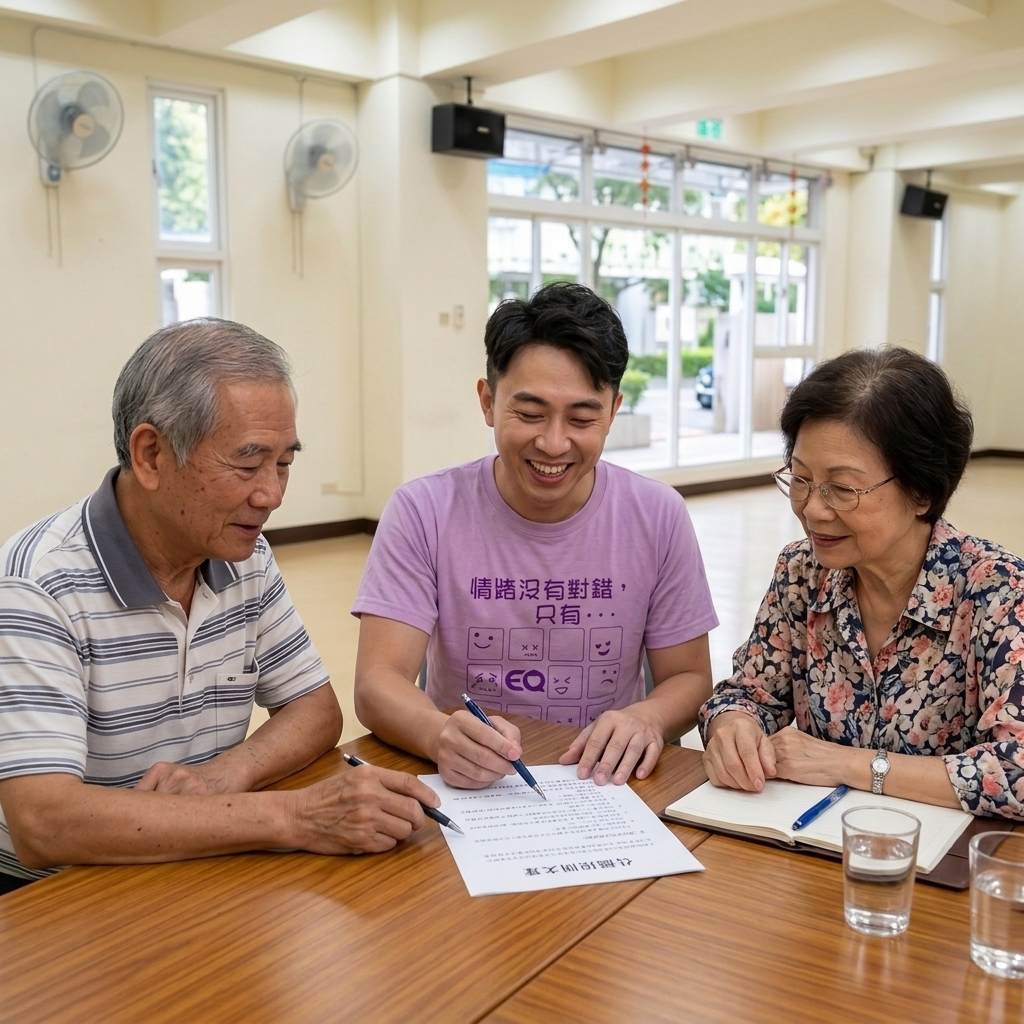
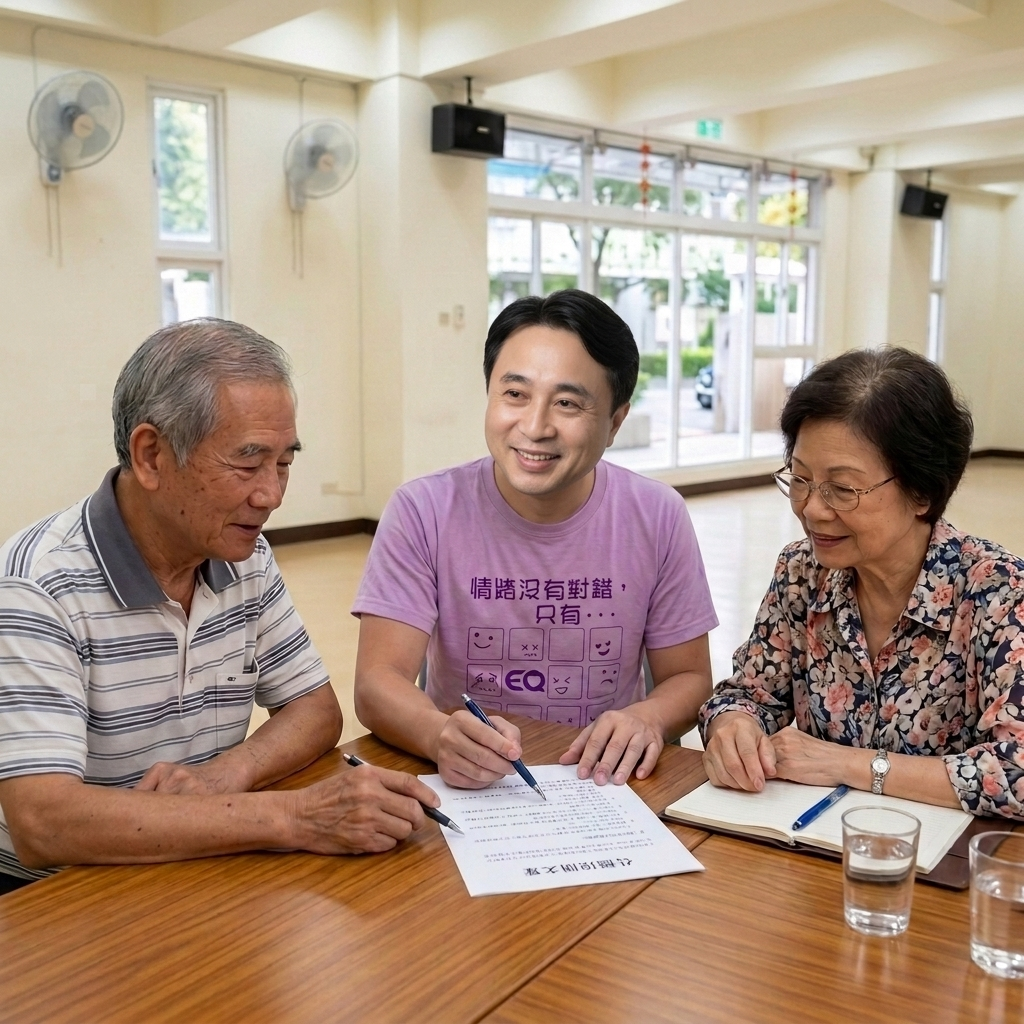
Auto backup by AI: Update policy 06 and 09 candidate face and policy 06 title

diff --git a/js/main.js b/js/main.js
@@ -134,9 +134,9 @@ const POLICIES_DATA = [
         id: 6,
         category: "governance",
         categoryName: "專業治理與精準服務",
-        title: "公費緊急救援 ＋ 獨老居家暖心守護",
+        title: "公費緊急救援 ＋ 獨老雙老暖心照護",
         subtitle: "對接衛福部 62.5 億專案，獨老與雙老同住皆可申請！建立 24 小時公費防跌守護網，為三明治世代守住全家平安！",
-        image: "images/policy_06_health.png?v=25.06",
+        image: "images/policy_06_health.png?v=25.07",
         badgePosition: "bottom-left",
         budgetSource: "衛福部 62.5 億獨老專案 ＋ 長照 2.0 專款",
         budgetSub: "<span class=\"hl-keyword\">完全不會用到</span>明德里 88 萬基層款",
@@ -203,7 +203,7 @@ const POLICIES_DATA = [
         categoryName: "專業治理與精準服務",
         title: "管委會法律諮詢 ＋ 鄰里和諧溝通平台",
         subtitle: "10 年管委會主委實務，顧問律師公益諮詢，理性調解漏水、噪音與規約糾紛！",
-        image: "images/policy_09_harmony.png?v=25.06",
+        image: "images/policy_09_harmony.png?v=25.07",
         budgetSource: "競選顧問律師群 ＋ 調解志工公益支援",
         budgetSub: "<span class=\"hl-keyword\">完全不會用到</span>明德里 88 萬基層款",
         budgetDesc: "由競選團隊顧問律師與 10 年管委會實務志工公益服務，零公帑支出，以法理情守護居住權益。",

diff --git a/index.html b/index.html
@@ -133,7 +133,7 @@
       ]
     }
     </script>
-    <link rel="stylesheet" href="css/style.css?v=25.06">
+    <link rel="stylesheet" href="css/style.css?v=25.07">
     <style>
     /* 調整主版面兩欄比例與間距，僅在桌機版生效以確保手機版正常響應式排版 */
     @media (min-width: 951px) {
@@ -1538,7 +1538,7 @@
         </div>
     </div>
 
-    <script src="js/main.js?v=25.06"></script>
+    <script src="js/main.js?v=25.07"></script>
     <script src="js/site-report-modal.js?v=1.00"></script>
 </body>
 </html>

diff --git a/sw.js b/sw.js
@@ -1,9 +1,9 @@
-const CACHE_NAME = 'mingde2-cache-v25.06';
+const CACHE_NAME = 'mingde2-cache-v25.07';
 const ASSETS_TO_CACHE = [
   './',
   'index.html',
-  'css/style.css?v=25.06',
-  'js/main.js?v=25.06',
+  'css/style.css?v=25.07',
+  'js/main.js?v=25.07',
   'manifest.json',
   'favicon.svg',
   'images/icon-192.png',
